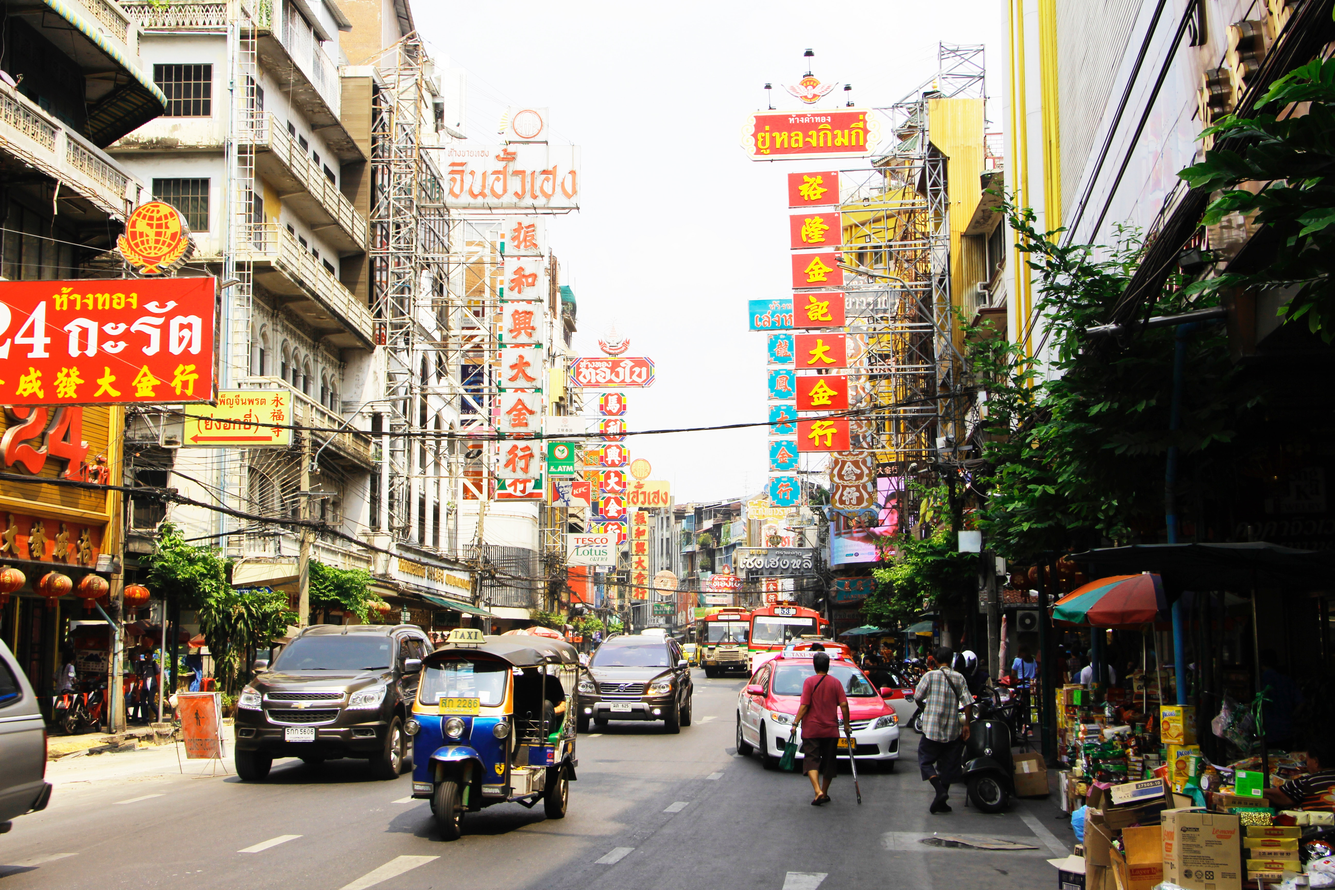
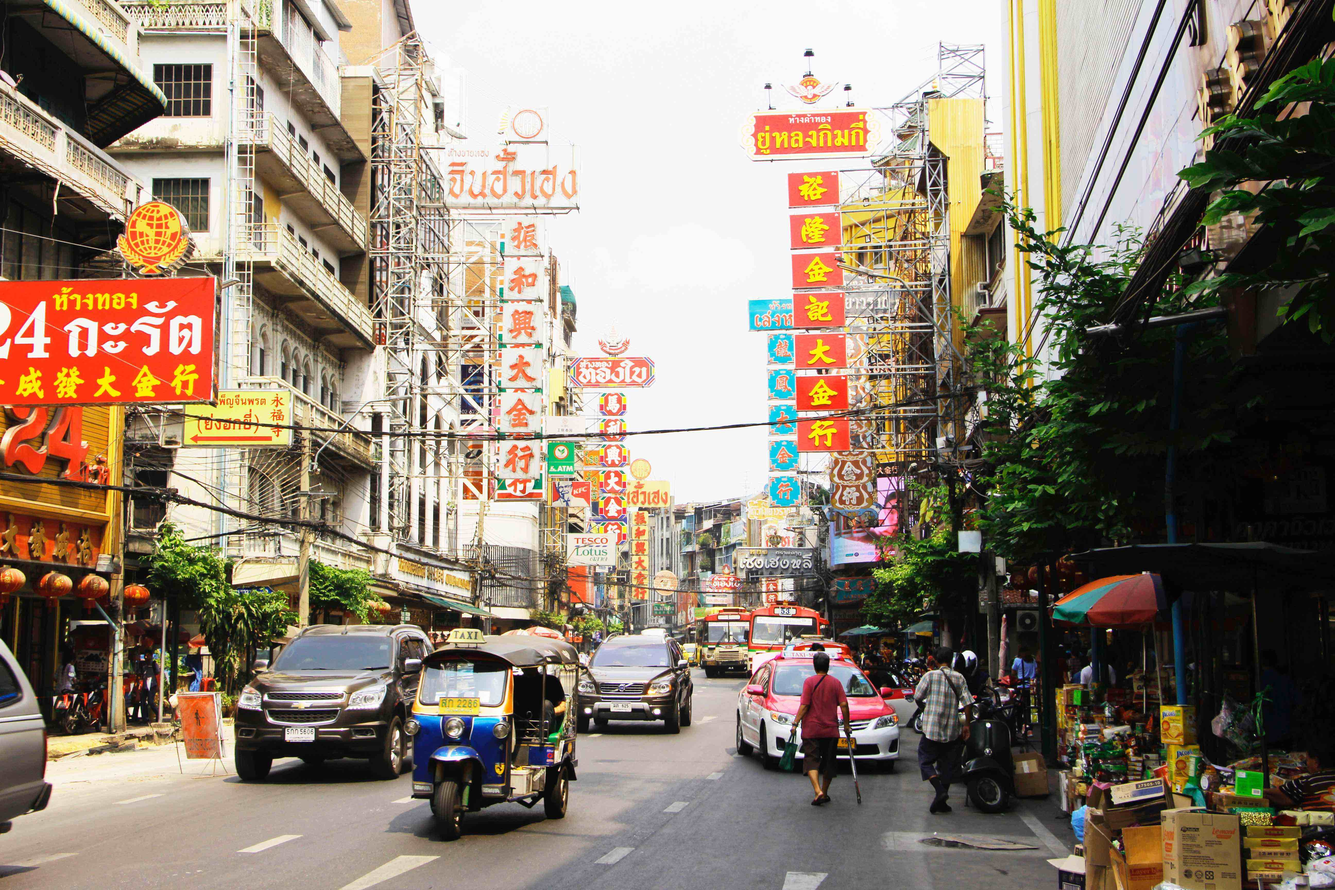
feat(discover): image resize

diff --git a/src/components/Explore.js b/src/components/Explore.js
@@ -1,11 +1,8 @@
 import React, { Component } from 'react';
 import Slider from 'react-slick'
 import './../assets/scss/explore.scss'
-import paper_airplane from '../assets/icon/paper-airplane.svg'
-import img0 from '../assets/img/bangkok2.png'
-import img1 from '../assets/img/bangkok3.jpg'
-import img2 from '../assets/img/bangkok4.jpg'
-import img3 from '../assets/img/yaowarach.jpg'
+import {paper_airplane} from './Icon'
+import {img0, img1, img2, img3} from './Demo'
 
 const TopAttractions = [
     {
@@ -59,6 +56,7 @@ export default class Explore extends React.Component {
       speed: 500,
       centerMode: true,
       centerPadding: '45px',
+      
       responsive: [
         {
           breakpoint: 400,
@@ -73,7 +71,9 @@ export default class Explore extends React.Component {
         <link rel='stylesheet' type='text/css' charSet='UTF-8' href='https://cdnjs.cloudflare.com/ajax/libs/slick-carousel/1.6.0/slick.min.css' />
         <link rel='stylesheet' type='text/css' href='https://cdnjs.cloudflare.com/ajax/libs/slick-carousel/1.6.0/slick-theme.min.css' />
           <div className='explore-title'>
-            <img src={paper_airplane} />
+            <div>
+              <img src={paper_airplane} />
+            </div>           
             <p > Explore </p>
           </div>
           <div>

diff --git a/src/components/Icon.js b/src/components/Icon.js
@@ -8,6 +8,7 @@ import Close from '../assets/icon/close.svg'
 import Menu from '../assets/icon/featured-menu.svg'
 import Airplane from '../assets/icon/airplane.svg'
 import Back from '../assets/icon/back.svg'
+import paper_airplane from '../assets/icon/paper-airplane.svg'
 
 export {
     SearchIcon,
@@ -20,4 +21,5 @@ export {
     Menu,
     Airplane,
     Back,
+    paper_airplane,
 }

diff --git a/src/components/Demo.js b/src/components/Demo.js
@@ -1,0 +1,11 @@
+import img0 from '../assets/img/bangkok2.jpg'
+import img1 from '../assets/img/bangkok3.jpg'
+import img2 from '../assets/img/bangkok4.jpg'
+import img3 from '../assets/img/yaowarach.jpg'
+
+export {
+    img0,
+    img1,
+    img2,
+    img3,
+}
